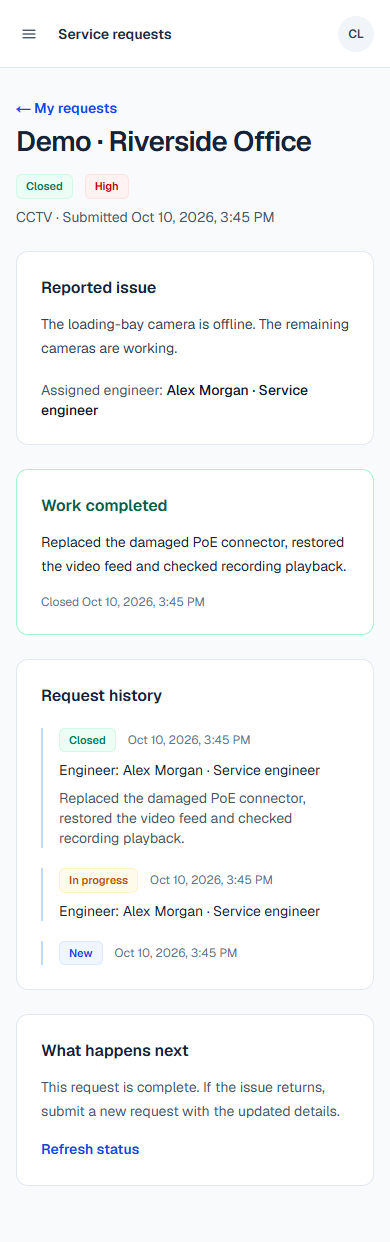
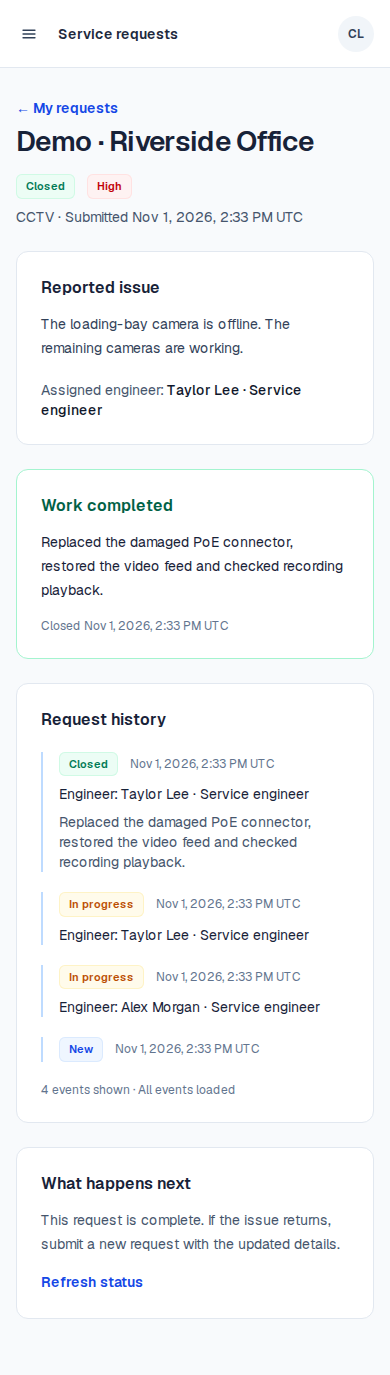
Refresh repair walkthrough from successful isolated browser capture

diff --git a/docs/COMPLETED_SCENARIO.md b/docs/COMPLETED_SCENARIO.md
@@ -2,7 +2,7 @@
 
 A site coordinator reports an offline loading-bay CCTV camera. An engineer takes the request, records the repair and closes it. The coordinator can then read the result and its history.
 
-This walkthrough uses existing application screenshots with fictional accounts and site data. It is a recorded example, not a claim that the live deployment contains every change in the release candidate.
+This walkthrough uses application screenshots captured on 1 November 2026 by [the isolated CI browser suite](https://github.com/bondarenkodenis0907-web/client-portal-dashboard/actions/runs/41316584189), on candidate `2ee311a`. Accounts and site data are fictional. It is a recorded example, not a claim that the live deployment contains every change in the release candidate.
 
 ## 1. Report the fault
 
@@ -15,6 +15,8 @@ As a client, open Service requests and submit:
 
 The request starts as New. The client sees their own requests; active staff can see it in the service queue.
 
+![Client view of the newly created request](../public/screenshots/request-created.png)
+
 ![Staff queue containing the reported fault](../public/screenshots/staff-queue.png)
 
 ## 2. Assign an engineer and start work
@@ -26,6 +28,8 @@ Open the request from the staff queue, choose an active engineer and select Assi
 ## 3. Record the repair and close the request
 
 Enter the completed work: “Replaced the damaged PoE connector, restored the video feed and checked recording playback.” Select Close request.
+
+The test also reassigns the work from Alex Morgan to Taylor Lee before closing it. Both assignments remain visible in history.
 
 The completed request shows the repair note, responsible engineer, closed status and history. A client can reopen the request page to read the result.
 
@@ -51,4 +55,4 @@ To refresh the walkthrough screenshots locally, run the same isolated suite with
 
 GitHub Actions enables capture for the isolated browser suite. After that suite succeeds, download `completed-scenario-screenshots` from the CI run's Artifacts section (retained for seven days). The five PNGs show the created request, staff queue, work in progress, completed client view and mobile view. CI writes them to `test-results/portfolio`, so an artifact cannot silently reuse the screenshots committed in `public/screenshots`. Only fictional local test accounts and requests are used. A passing suite also verifies the database result; screenshots alone do not prove it. Review the new frames before updating portfolio images.
 
-The current test also exercises reassignment and failure recovery, so regenerated history can contain more events than these older screenshots. A new local browser run was not performed during the 1 November documentation review because Docker was unavailable; see the candidate CI results for execution evidence.
+The test also exercises failure recovery and a rejected stale edit. Docker was unavailable in the review workspace; the fresh screenshots and browser execution came from GitHub Actions, without using the owner's computer.

diff --git a/docs/evidence/priority-check-20261101.md b/docs/evidence/priority-check-20261101.md
@@ -26,3 +26,9 @@ Review compatible upstream fixes for minimatch and a supported ESLint major. The
 The weekly Dependabot configuration becomes active once merged into the default branch. Review generated PRs and rerun CI. This change does not merge PR #24, apply migrations, change provider configuration or release production. The release gates and environment isolation requirements in the release runbook remain open.
 
 References: [Next.js Proxy location](https://nextjs.org/docs/app/api-reference/file-conventions/proxy), [ESLint version support](https://eslint.org/version-support/), [minimatch advisory](https://github.com/advisories/GHSA-g3hv-75wg-m249).
+
+## Follow-up: remote screenshot capture
+
+On 1 November, candidate `2ee311ac5a742eef723cbc9b6b5f6129e2656f9c` ran the browser/SQL suite on GitHub Actions' isolated backend. The screenshot upload step succeeded in [CI run 41316584189](https://github.com/bondarenkodenis0907-web/client-portal-dashboard/actions/runs/41316584189), producing artifact `completed-scenario-screenshots` (ID 13087154364). Its five PNGs were downloaded and visually reviewed: request created, staff queue, work in progress, completed client view and mobile. The walkthrough images were refreshed from those exact bytes. They contain fictional test data and no visible pointer.
+
+The browser test verifies the saved database outcome as well as the screens. It also exercises reassignment from Alex Morgan to Taylor Lee, failure recovery and stale-write rejection. This follow-up supersedes the earlier screenshot freshness limitation; it does not turn the isolated CI run into hosted production acceptance.
